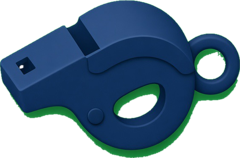
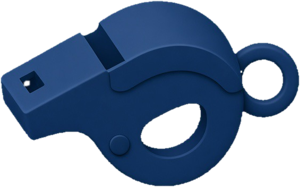
En-tête : sifflet seul (éclairci en mode sombre), écriture resserrée
Claude-Session: https://claude.ai/code/session_013PLL4gLS8G7RaPEMEjYYyT

diff --git a/index.html b/index.html
@@ -66,15 +66,15 @@
   .banner{position:relative;overflow:hidden;background:#3d7a2c;padding-top:env(safe-area-inset-top)}
   .banner::before{content:"";position:absolute;inset:-30px;background:url(banner.jpg) center 20%/auto 300%;filter:blur(16px) saturate(1.1)}
   .banner img{position:relative;display:block;width:100%;height:auto;max-height:260px;object-fit:cover;-webkit-mask-image:linear-gradient(to bottom,transparent 0,#000 30px);mask-image:linear-gradient(to bottom,transparent 0,#000 30px)}
-  .brand{display:flex;align-items:center;gap:14px}
-  .brand .logo{width:58px;height:58px;border-radius:15px;background:linear-gradient(160deg,#3fd56f,#22c55e);display:grid;place-items:center;flex:none;box-shadow:0 4px 12px rgba(34,197,94,.3)}
-  .brand .logo img{width:46px;height:auto;display:block}
+  .brand{display:flex;align-items:center;gap:12px}
+  .brand .logo{width:74px;height:auto;flex:none;display:block;filter:drop-shadow(0 3px 4px rgba(0,0,0,.18))}
+  :root[data-theme=dark] .brand .logo{filter:brightness(1.9) saturate(1.2) drop-shadow(0 0 6px rgba(120,160,255,.35))}
   .wm{display:flex;flex-direction:column;align-items:flex-start;line-height:1;font-family:Poppins,M,sans-serif;font-weight:700;color:var(--ink)}
-  .wm-mon{font-size:11px;letter-spacing:.45em;color:var(--mut);margin-bottom:4px}
-  .wm-p{font-size:38px;letter-spacing:.03em}
+  .wm-mon{font-size:11px;letter-spacing:.22em;color:var(--mut);margin-bottom:1px}
+  .wm-p{font-size:38px;letter-spacing:.01em;margin-left:-1px}
   .wm-p i{display:inline-block;transform:skewX(-14deg);font-style:normal}
-  .wm-d{display:flex;align-items:center;gap:.45em;font-size:12px;letter-spacing:.42em;margin-top:5px}
-  .wm-d::before,.wm-d::after{content:"";width:1.6em;height:.18em;border-radius:.1em;background:var(--green)}
+  .wm-d{display:flex;align-items:center;gap:.4em;font-size:12px;letter-spacing:.24em;margin-top:2px}
+  .wm-d::before,.wm-d::after{content:"";width:1.2em;height:.18em;border-radius:.1em;background:var(--green)}
   /* ---------- Écran d'ouverture ---------- */
   #splash{position:fixed;inset:0;z-index:100;background:var(--bg);display:grid;place-items:center;transition:opacity .45s ease}
   #splash img{width:min(56vw,240px);height:auto;border-radius:22%;box-shadow:0 18px 50px rgba(34,197,94,.35);animation:pop .6s ease-out}
@@ -291,7 +291,7 @@
 </script>
 <div class="banner"><img src="banner.jpg" alt="Football en Haute-Marne"></div>
 <header>
-  <div class="brand"><div class="logo"><img src="sifflet.png" alt=""></div>
+  <div class="brand"><img class="logo" src="sifflet.png" alt="">
     <div class="wm" aria-label="Mon petit District"><span class="wm-mon">MON</span><span class="wm-p">PET<i>I</i>T</span><span class="wm-d">DISTRICT</span></div>
     <button class="theme-btn" id="themeBtn" onclick="toggleTheme()" aria-label="Mode sombre"></button></div>
   <div class="league" id="sub"></div>
